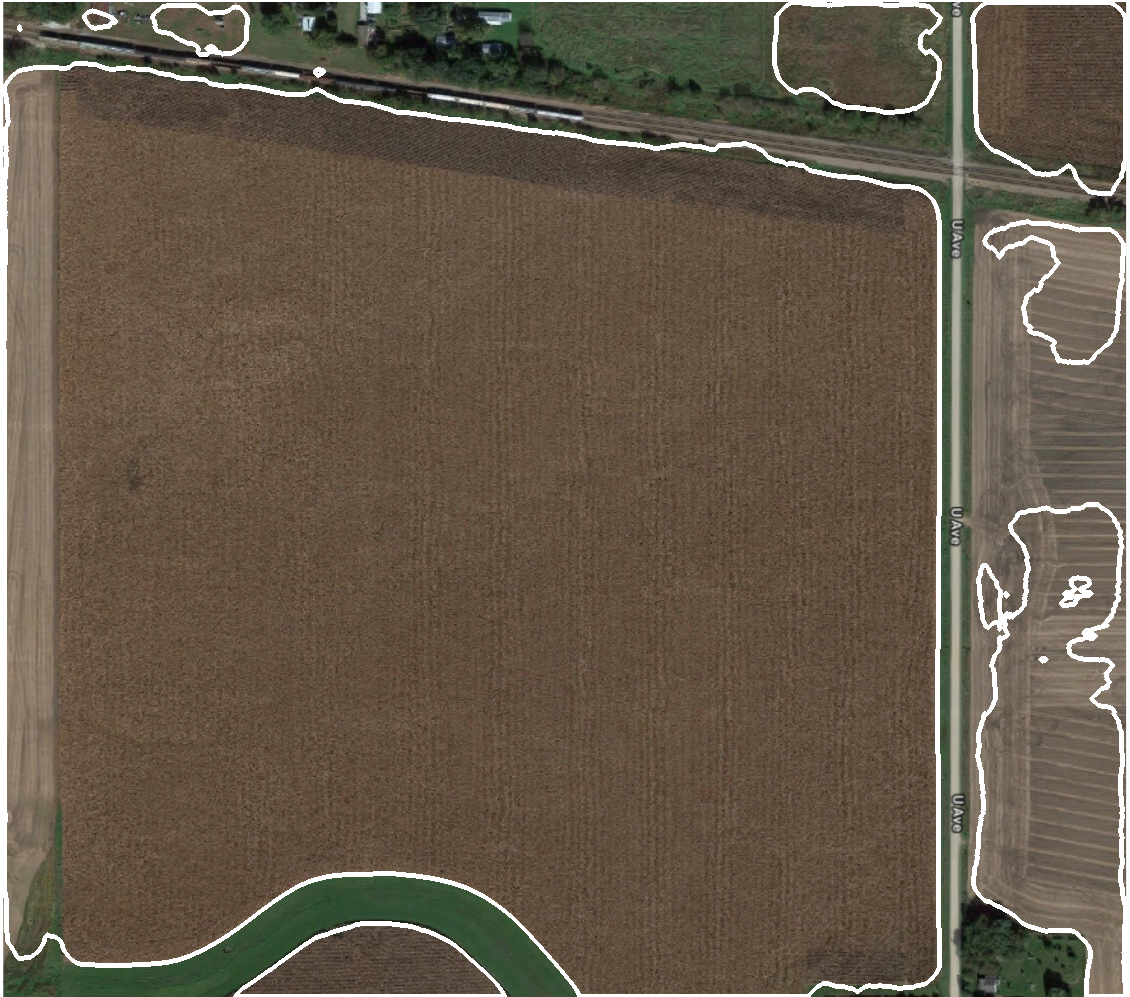
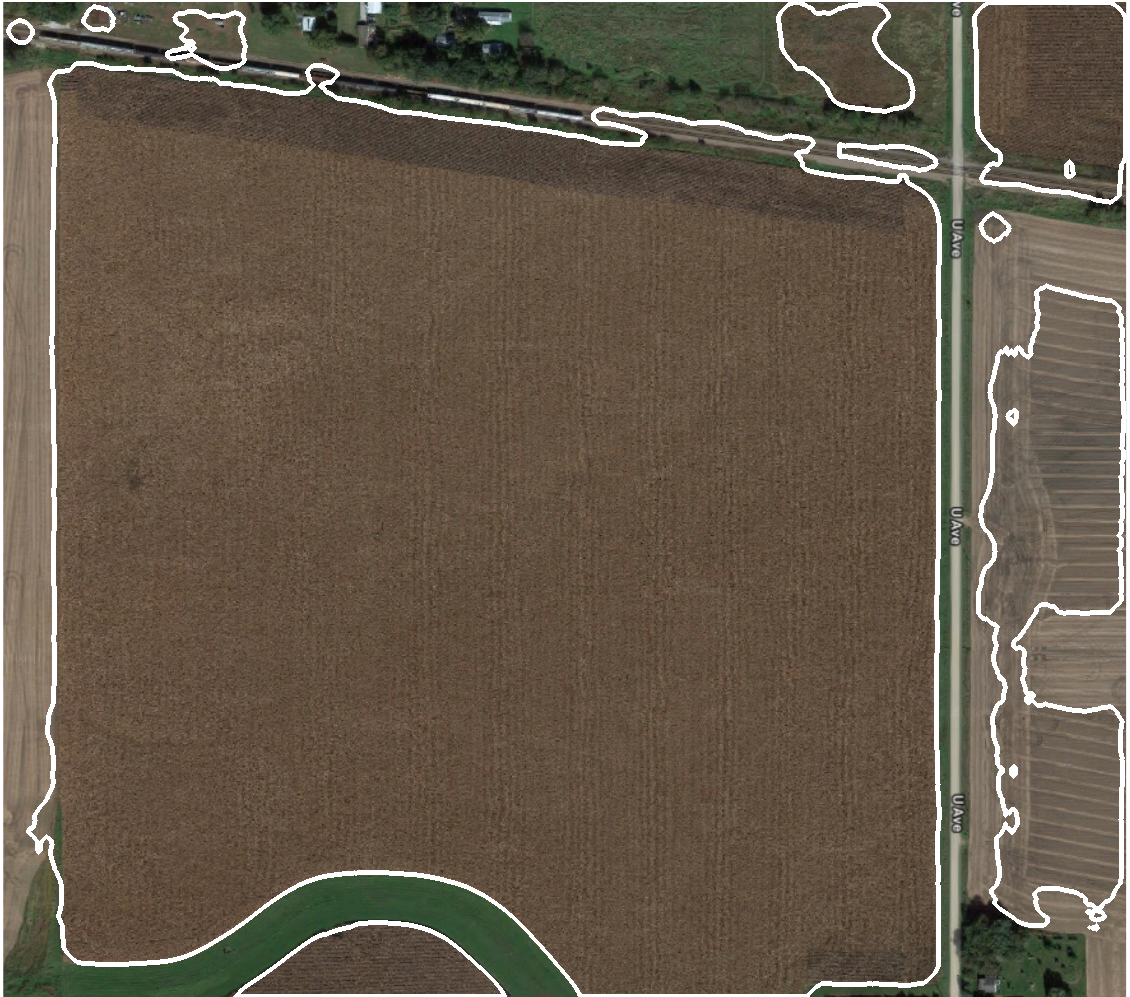
Added hsl threshold arguments to pipeline class

diff --git a/vision/hslpipline.py b/vision/hslpipline.py
@@ -9,14 +9,18 @@ class HSLPipline:
     An OpenCV pipeline generated by GRIP.
     """
 
-    def __init__(self):
+    def __init__(self, h, s, l):
         """initializes all values to presets or None if need to be set
         """
-
         self.__blur_0_type = BlurType.Box_Blur
         self.__blur_0_radius = 0.0
 
         self.blur_0_output = None
+
+        self.hue_threshold_range = 5
+        self.sat_threshold_range = 100
+        self.lum_threshold_range = 100
+        # self.area_threshold = 0.1
 
         self.__rgb_threshold_input = self.blur_0_output
         self.__rgb_threshold_red = [74.89415879631667, 127.99960815047024]
@@ -26,16 +30,22 @@ class HSLPipline:
         self.rgb_threshold_output = None
 
         self.__hsl_threshold_input = self.blur_0_output
-        self.__hsl_threshold_hue = [9.278350515463917, 32.72727272727274]
-        self.__hsl_threshold_saturation = [
-            29.87347703842549, 171.54545454545453]
-        self.__hsl_threshold_luminance = [0.0, 151.8409090909091]
+
+        low = h - self.hue_threshold_range
+        if low < 0:
+            low += 180
+        hi = h + self.hue_threshold_range
+        if hi > 180:
+            hi %= 180
+        self.__hsl_threshold_hue = [low, hi]
+        self.__hsl_threshold_saturation = [max(0, s - self.sat_threshold_range), min(255, s + self.sat_threshold_range)]
+        self.__hsl_threshold_luminance = [max(0, l - self.lum_threshold_range), min(255, l + self.lum_threshold_range)]
 
         self.hsl_threshold_output = None
 
         self.__blur_1_input = self.hsl_threshold_output
         self.__blur_1_type = BlurType.Median_Filter
-        self.__blur_1_radius = 15.492957746478872
+        self.__blur_1_radius = 7
 
         self.blur_1_output = None
 
@@ -143,6 +153,8 @@ class HSLPipline:
         contours = cv2.findContours(input, mode, method)
 
         for contour in contours:  # Trust me need the useless for loop
+            # for cont in contour:
+            #     if cv2.contourArea(cont) > area_threshold:
             cv2.drawContours(source0, contour, -1, (0, 255, 0), 3)
             break
 

diff --git a/vision/run_pipeline.py b/vision/run_pipeline.py
@@ -4,14 +4,22 @@ import cv2
 import time
 
 filename = "test1.png"
+h = 15
+s = 20
+l = 30
 
-if(len(sys.argv) > 1):
-    filename = sys.argv[0]
+# python3 run_pipeline.py ../assets/fields/generated_fields/field0.jpg 24 17 41
+
+if(len(sys.argv) >= 5):
+    filename = sys.argv[1]
+    h = int(sys.argv[2])
+    s = int(sys.argv[3])
+    l = int(sys.argv[4])
 
 image = cv2.imread(filename, cv2.IMREAD_UNCHANGED)
 cv2.namedWindow("Image")
 
-pipeline = HSLPipline()
+pipeline = HSLPipline(h, s, l)
 processed_image = pipeline.process(image)
 
 processed_filename = filename.split('.')[0] + "_processed.png"
